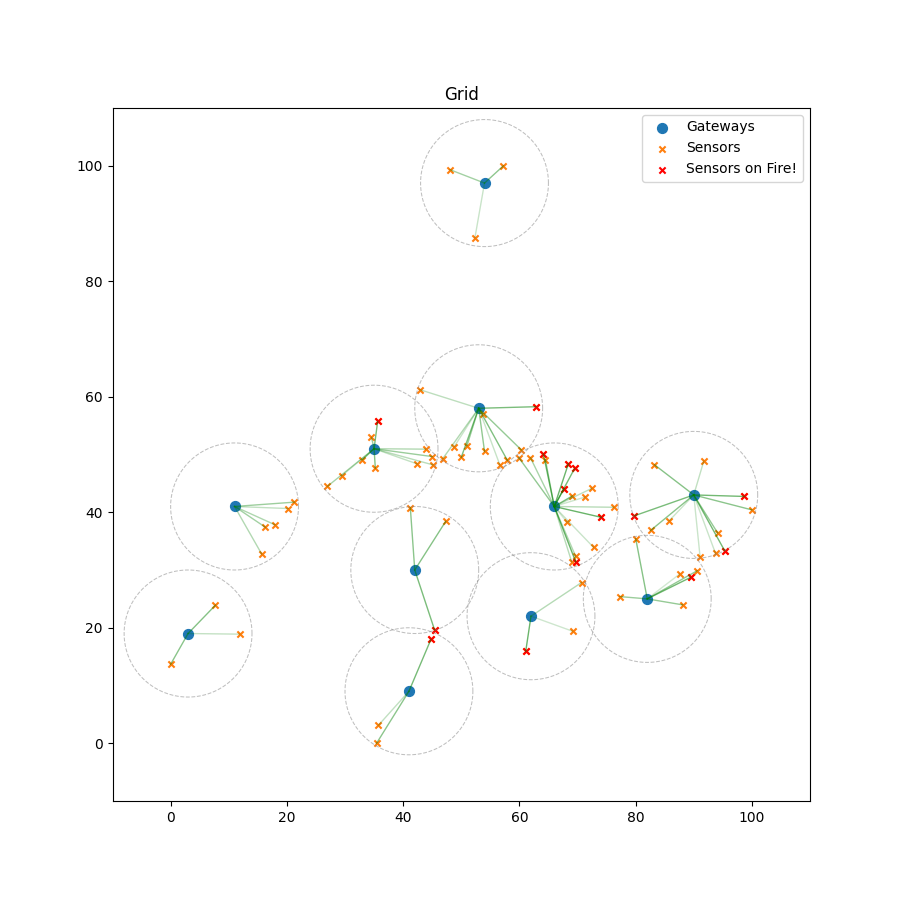
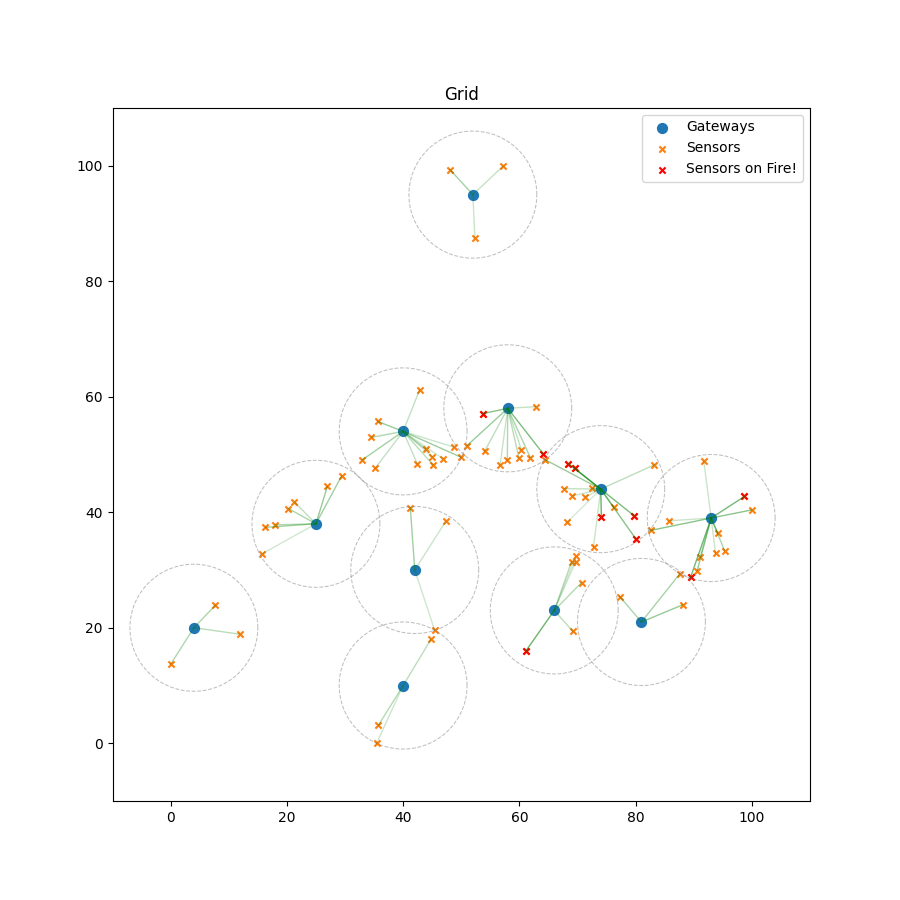
real-data is more important!

diff --git a/functions/visualizer.py b/functions/visualizer.py
@@ -97,7 +97,7 @@ def show_grid(sensor_set:set, gateway_set:set, grid:Grid, distance_threshold:int
         sensor_y_data.append(sensor.get_y()) 
 
     hot_sensor_x_data, hot_sensor_y_data = list(), list()
-    for hot_sensor in helpers.get_top_sensors(sensor_set, 15):
+    for hot_sensor in helpers.get_top_sensors(sensor_set, 10):
         hot_sensor_x_data.append(hot_sensor.get_x())
         hot_sensor_y_data.append(hot_sensor.get_y())
 

diff --git a/functions/preprocessing.py b/functions/preprocessing.py
@@ -79,7 +79,7 @@ def init_sensors_from_file(file_path:str) -> set:
                 id=sensor_id,
                 x=long_as_float,
                 y=lat_as_float,
-                score=np.random.rand()*(0.59-0.17)+0.17)
+                score=np.random.rand()*(0.41-0.17)+0.17)
 
             sensor_set.add(new_sensor)
 
